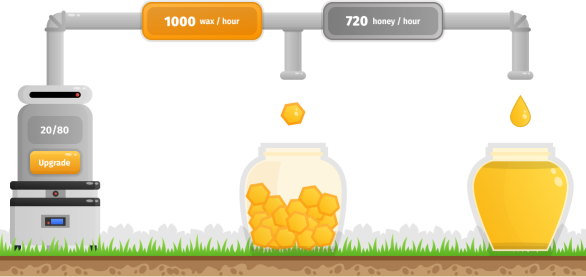
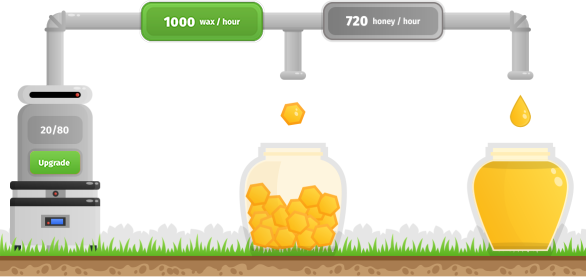
new

Changed region(s): [[0.215, 0.0, 0.4608, 0.1733], [0.0307, 0.5199, 0.1536, 0.6354]]

diff --git a/styles/style.css b/styles/style.css
@@ -220,14 +220,14 @@ article, aside, details, figcaption, figure, footer, header, main, menu, nav, se
 }
 .button-btn{
     border-radius: 10px;
-    background: linear-gradient(to bottom, rgba(156,237,90,1) 0%, rgba(132,230,52,1) 100%);
+    background: linear-gradient(to bottom, rgba(118,201,71,1) 0%, rgba(93,181,49,1) 100%);
     width: 161px;
     text-align: center;
     height: 46px;
     display: flex;
     justify-content: center;
     align-items: center;
-    box-shadow: 1px -6px 0px -1px rgba(121,217,43,1) inset, 1px 6px 0px -1px rgba(168,240,110,1) inset;
+    box-shadow: 1px -6px 0px -1px rgba(85,170,44,1) inset, 1px 6px 0px -1px rgba(135,208,92,1) inset;
     position: relative;
     z-index: 1;
     top: -1px;
@@ -245,8 +245,8 @@ article, aside, details, figcaption, figure, footer, header, main, menu, nav, se
     height: 6px;
 }
 .button-btn:hover{
-    background: linear-gradient(to bottom, rgba(132,230,52,1) 0%, rgba(156,237,90,1) 100%);
-    box-shadow: 1px -6px 0px -1px rgba(168,240,110,1) inset, 1px 6px 0px -1px rgba(121,217,43,1)  inset;
+    background: linear-gradient(to bottom, rgba(93,181,49,1) 0%, rgba(118,201,71,1) 100%);
+    box-shadow: 1px -6px 0px -1px rgba(135,208,92,1) inset, 1px 6px 0px -1px rgba(85,170,44,1)  inset;
 }
 .btn-back-wrapper{
     background-color: #4fa42f;
@@ -462,9 +462,9 @@ article, aside, details, figcaption, figure, footer, header, main, menu, nav, se
 }
 .drop-down-lg{
     position: relative;
-    -webkit-box-shadow: 0px 0px 0px 5px rgba(81,168,48,1);
-    -moz-box-shadow: 0px 0px 0px 5px rgba(81,168,48,1);
-    box-shadow: 0px -1px 1px 5px rgba(81,168,48,1);
+    -webkit-box-shadow: 0px 0px 0px 5px rgba(83,171,48,1);
+    -moz-box-shadow: 0px 0px 0px 5px rgba(83,171,48,);
+    box-shadow: 0px -1px 1px 5px rgba(83,171,48,);
     border-radius: 100%;
 }
 .list-db{
@@ -622,10 +622,10 @@ article, aside, details, figcaption, figure, footer, header, main, menu, nav, se
 }
 .info-item{
     border-radius: 20px;
-    border: 2px solid #488827;
+    border: 2px solid #bd4f00;
     max-width: 173px;
     width: 100%;
-    background: linear-gradient(to bottom, rgba(79,159,41,1) 0%, rgba(83,167,43,1) 100%);
+    background: linear-gradient(to bottom, rgba(231,100,2,1) 0%, rgba(244,134,1,1) 100%);
     -webkit-box-shadow: 0px 0px 0px 4px rgba(155,155,155,0.31);
     -moz-box-shadow: 0px 0px 0px 4px rgba(155,155,155,0.31);
     box-shadow: 0px 0px 0px 4px rgba(155,155,155,0.31);
@@ -644,7 +644,7 @@ article, aside, details, figcaption, figure, footer, header, main, menu, nav, se
     margin: 7px 0;
 }
 .result{
-    background: linear-gradient(to bottom, rgba(77,142,44,1) 0%, rgba(84,150,48,1) 100%);
+    background: linear-gradient(to bottom, rgba(189,107,1,1) 0%, rgba(193,118,1,1) 100%);
     border-radius: 10px;
     padding: 16px 0;
 }
@@ -1883,9 +1883,9 @@ article, aside, details, figcaption, figure, footer, header, main, menu, nav, se
 /*--------------------start footer--------------------------*/
 
 .footer{
-    background-color: #66b534;
+    background-color: #55af26;
     padding-top: 18px;
-    border-top: 2px solid #53932a;
+    border-top: 2px solid #367d11;
     position: relative;
     z-index: 100;
     -webkit-box-shadow: 0px -9px 0px 0px rgba(220,223,225,1);
@@ -1894,8 +1894,8 @@ article, aside, details, figcaption, figure, footer, header, main, menu, nav, se
     margin-bottom: -20px;
 }
 .wrapper-footer-content{
-    border-top: 2px solid #53932a;
-    background-color: #488025;
+    border-top: 2px solid #367d11;
+    background-color: #488827;
     padding: 25px 0 47px 0;
 }
 .content-footer{
@@ -1932,26 +1932,28 @@ article, aside, details, figcaption, figure, footer, header, main, menu, nav, se
     width: 100px;
     height: 45px;
     border-radius: 10px;
-    background: linear-gradient(to bottom, rgba(138,209,93,1) 0%, rgba(117,201,64,1) 100%);
+    background: linear-gradient(to bottom, rgba(216,233,245,1) 0%, rgba(187,208,233,1) 100%);
     text-align: center;
     display: flex;
     align-items: center;
     justify-content: center;
-    box-shadow: 1px -6px 0px -1px rgba(106,189,54,1) inset, 1px 6px 0px -1px rgba(154,215,115,1) inset;
+    box-shadow: 1px -6px 0px -1px rgba(175,195,210,1) inset, 1px 6px 0px -1px rgba(223,238,248,1) inset;
     position: relative;
     margin-bottom: 20px;
+    color: #000;
 
 }
 .footer-btn:hover{
-    background: linear-gradient(to bottom, rgba(117,201,64,1) 0%, rgba(138,209,93,1,1) 100%);
-    box-shadow: 1px -6px 0px -1px rgba(154,215,115,1) inset, 1px 6px 0px -1px rgba(106,189,54,1) inset;
+    background: linear-gradient(to bottom, rgba(187,208,233,1) 0%, rgba(216,233,245,1) 100%);
+    box-shadow: 1px -6px 0px -1px rgba(223,238,248,1) inset, 1px 6px 0px -1px rgba(175,195,210,1) inset;
+    color: #000;
 }
 .footer-btn:before{
     content: '';
     position: absolute;
-    -webkit-box-shadow: 0px 0px 0px 4px rgba(64,114,33,1);
-    -moz-box-shadow: 0px 0px 0px 4px rgba(64,114,33,1);
-    box-shadow: 0px 0px 0px 4px rgba(64,114,33,1);
+    -webkit-box-shadow: 0px 0px 0px 5px rgba(60,104,56,1);
+    -moz-box-shadow: 0px 0px 0px 5px rgba(60,104,56,1);
+    box-shadow: 0px -1px 1px 5px rgba(60,104,56,1);
     left: 0;
     right: 0;
     bottom: 0;
@@ -3234,7 +3236,7 @@ article, aside, details, figcaption, figure, footer, header, main, menu, nav, se
 
 .landing-header{
     width: 100%;
-    background-color: #6ab835;
+    background-color: #5bb831;
     padding: 15px 10px;
     border-bottom: 3px solid #53932a;
     -webkit-box-shadow: 0px 0px 0px 6px rgba(155,155,155,0.31);
@@ -3263,13 +3265,20 @@ article, aside, details, figcaption, figure, footer, header, main, menu, nav, se
     margin-right: 20px;
     position: relative;
     height: 40px;
+    background: linear-gradient(to bottom, rgba(216,233,245,1) 0%, rgba(187,208,233,1) 100%);
+    box-shadow: 1px -6px 0px -1px rgba(175,195,210,1) inset, 1px 6px 0px -1px rgba(223,238,248,1) inset;
+    color: #000;
+}
+.go-to-game:hover{
+    background: linear-gradient(to bottom, rgba(187,208,233,1) 0%, rgba(216,233,245,1) 100%);
+    box-shadow: 1px -6px 0px -1px rgba(223,238,248,1) inset, 1px 6px 0px -1px rgba(175,195,210,1) inset;
 }
 .go-to-game::after {
     content: '';
     position: absolute;
-    -webkit-box-shadow: 0px 0px 0px 5px rgba(81,168,48,1);
-    -moz-box-shadow: 0px 0px 0px 5px rgba(81,168,48,1);
-    box-shadow: 0px -1px 1px 5px rgba(81,168,48,1);
+    -webkit-box-shadow: 0px 0px 0px 5px rgba(72,138,65,1);
+    -moz-box-shadow: 0px 0px 0px 5px rgba(72,138,65,1);
+    box-shadow: 0px -1px 1px 5px rgba(72,138,65,1);
     left: 0;
     right: 0;
     bottom: 0;
@@ -3378,6 +3387,13 @@ article, aside, details, figcaption, figure, footer, header, main, menu, nav, se
     width: 252px;
     height: 60px;
     font-size: 24px;
+    background: linear-gradient(to bottom, rgba(118,201,71,1) 0%, rgba(93,181,49,1) 100%);
+    box-shadow: 1px -6px 0px -1px rgba(85,170,44,1) inset, 1px 6px 0px -1px rgba(135,208,92,1) inset;
+    color: #fff;
+}
+.slider-btn:hover{
+    background: linear-gradient(to bottom, rgba(93,181,49,1) 0%, rgba(118,201,71,1) 100%);
+    box-shadow: 1px -6px 0px -1px rgba(135,208,92,1) inset, 1px 6px 0px -1px rgba(85,170,44,1) inset;
 }
 .slider-btn::after{
     content: '';
@@ -3393,6 +3409,19 @@ article, aside, details, figcaption, figure, footer, header, main, menu, nav, se
     height: 100%;
     border-radius: 10px;
 }
+
+.button-btn:before{
+    content: '';
+    position: absolute;
+    top: 4px;
+    right: 5px;
+    background: url("../image/btn-before.png")no-repeat;
+    background-size: contain;
+    width: 24px;
+    height: 6px;
+}
+
+
 .carousel-bee .carousel-indicators li{
     width: 25px;
     height: 25px;
@@ -3404,7 +3433,7 @@ article, aside, details, figcaption, figure, footer, header, main, menu, nav, se
     margin-right: 0;
 }
 .carousel-bee .carousel-indicators .active{
-    background-color: #388a00;
+    background-color: #4b9926;
 }
 .light-bg-body{
     background-color: #ffffff;
@@ -3425,7 +3454,7 @@ article, aside, details, figcaption, figure, footer, header, main, menu, nav, se
 }
 .section-title{
     font-size: 38px;
-    color: #7b3701;
+    color: #326909;
 }
 .header-sections{
     display: flex;
@@ -3462,7 +3491,7 @@ article, aside, details, figcaption, figure, footer, header, main, menu, nav, se
     margin-bottom: 0;
 }
 .title-text{
-    color: #e76402;
+    color: #326909;
     font-weight: bold;
     margin-right: 5px;
 }
@@ -3485,7 +3514,7 @@ article, aside, details, figcaption, figure, footer, header, main, menu, nav, se
 }
 .item-result span{
     font-size: 60px;
-    color: #7b3701;
+    color: #326909;
     font-weight: bold;
 }
 .first-rsult,
@@ -3549,24 +3578,24 @@ article, aside, details, figcaption, figure, footer, header, main, menu, nav, se
     margin-top: 15px;
 }
 .dark-text{
-    color: #7b3701;
+    color: #326909;
     font-weight: bold;
     line-height: 28px;
 }
 .small-percent{
     font-size: 16px;
-    color: #e76402;
+    color: #16b60a;
 }
 .title-footer-about-bee{
     font-size: 20px;
-    color: #7b3701;
+    color: #326909;
     font-weight: bold;
 }
 .price-bee-text,
 .product-bee-text,
 .block-tetx-medal-result,
 .big-text{
-    color: #e76402;
+    color: #16b60a;
     font-size: 15px;
     font-weight: bold;
     display: flex;
@@ -3643,7 +3672,7 @@ article, aside, details, figcaption, figure, footer, header, main, menu, nav, se
 }
 .name-type-medal{
     font-size: 20px;
-    color: #7b3701;
+    color: #326909;
     font-weight: bold;
     margin: 15px 0;
 }
@@ -3736,7 +3765,7 @@ article, aside, details, figcaption, figure, footer, header, main, menu, nav, se
 .title-item-block{
     font-size: 20px;
     font-weight: bold;
-    color: #e76402;
+    color: #16b60a;
     margin-bottom: 35px;
 }
 .wrapper-my-honey{
@@ -3885,9 +3914,9 @@ border-radius: 10px;
 }
 
 .select-selected {
-    background-color: #f5f0e7;
+    background-color: #e8f7da;
     border-radius: 10px;
-    border: 2px solid #e38d11;
+    border: 2px solid #76c82c;
 }
 
 /* Style the arrow inside the select element: */
@@ -3910,13 +3939,13 @@ border-radius: 10px;
 
 /* style the items (options), including the selected item: */
 .select-items div,.select-selected {
-    color: #7b3701;
+    color: #326909;
     padding: 8px 16px;
     cursor: pointer;
     font-weight: bold;
 }
 .select-items{
-    border: 2px solid #e38d11;
+    border: 2px solid #76c82c;
 }
 
     /* Style items (options): */
@@ -4010,7 +4039,7 @@ border-radius: 10px;
 }
 .title-contact-info{
     font-size: 20px;
-    color: #7b3701;
+    color: #326909;
     text-align: center;
 }
 .country-contact{
@@ -4410,7 +4439,7 @@ border-radius: 10px;
     margin-bottom: 15px;
 }
 .stub-text a{
-    color: #e76402;
+    color: #16b60a;
     font-size: 20px;
 }
 .more-btn{
@@ -4816,7 +4845,7 @@ body.dialogShowing {
     margin-top: 20px;
 }
 .title-about{
-    color: #7b3701;
+    color: #326909;
     font-size: 20px;
     font-weight: bold;
     margin-bottom: 15px;
@@ -4860,6 +4889,14 @@ body.dialogShowing {
 .btn-item{
     width: 162px !important;
     font-size: 14px;
+}
+.btn-item{
+    background: linear-gradient(to bottom, rgba(252,190,54,1) 0%, rgba(238,152,26,1) 100%);
+    box-shadow: 1px -6px 0px -1px rgba(223,138,20,1) inset, 1px 6px 0px -1px rgba(255,204,79,1) inset;
+}
+.btn-item:hover{
+    background: linear-gradient(to bottom, rgba(238,152,26,1) 0%, rgba(252,190,54,1) 100%);
+    box-shadow: 1px -6px 0px -1px rgba(255,204,79,1) inset, 1px 6px 0px -1px rgba(223,138,20,1) inset;
 }
 .btn-item-green:after,
 .btn-item:after{
@@ -4989,7 +5026,7 @@ body.dialogShowing {
 }
 .more-list li{
     list-style-type: decimal-leading-zero;
-    color: #7b3701;
+    color: #326909;
     font-weight: bold;
     padding-left: 15px;
 }
